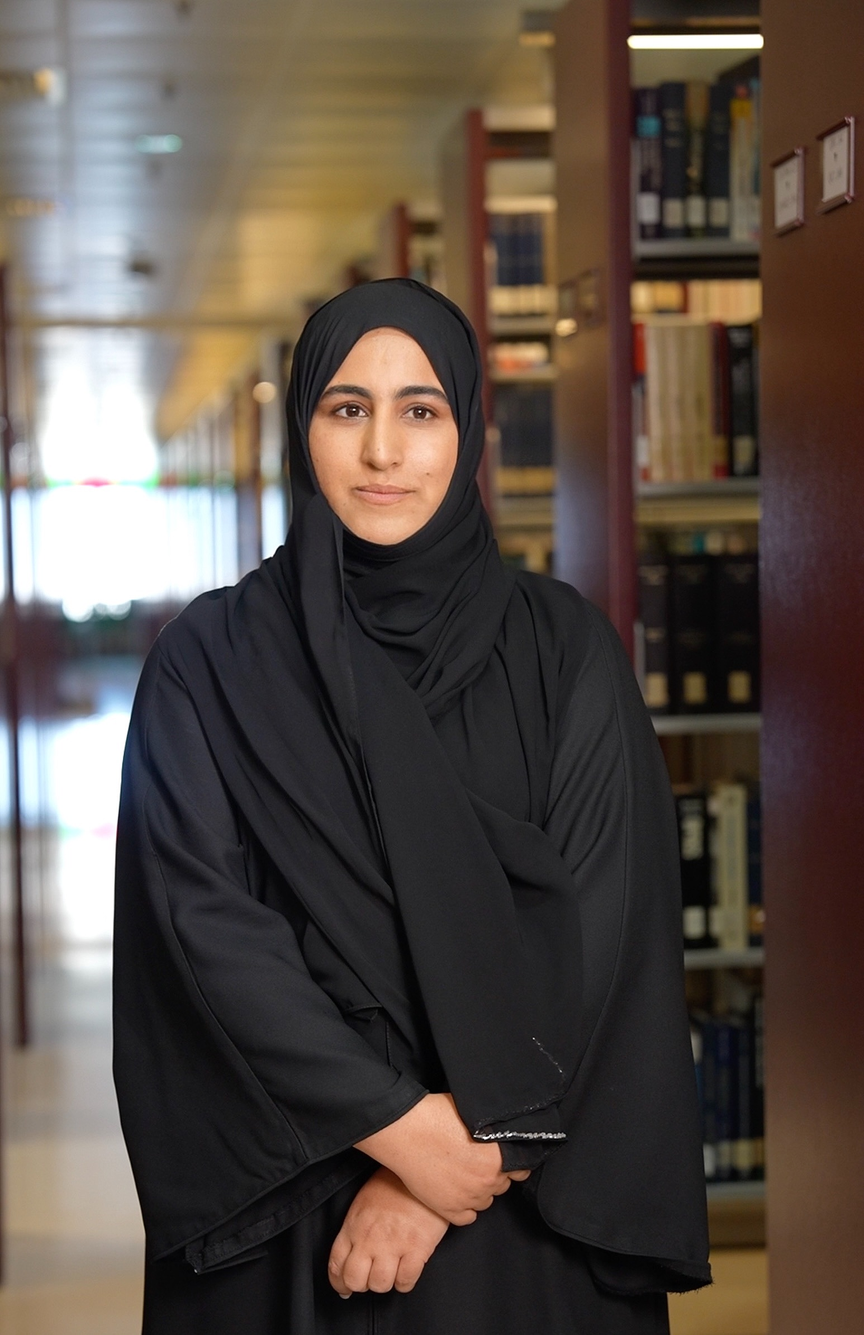
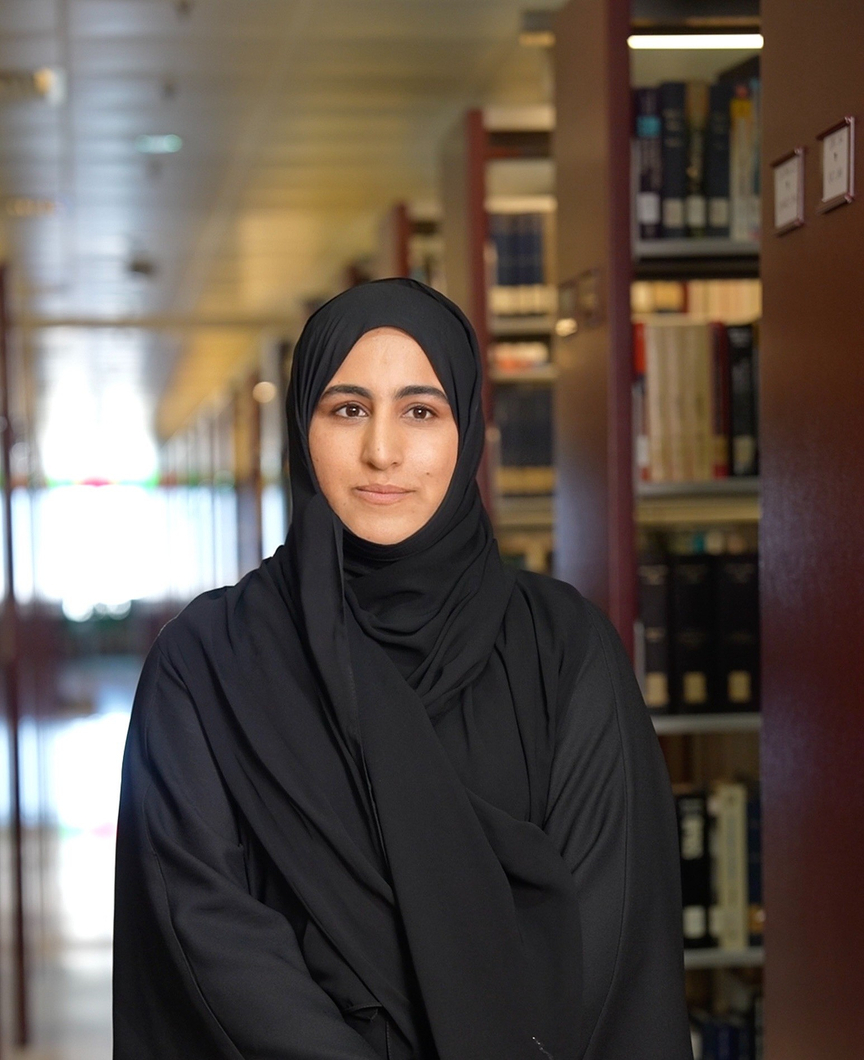
test fork push

diff --git a/styles.css b/styles.css
@@ -1277,11 +1277,10 @@ body.theme-7 {
     padding: 80px 0;
 }
 
-/* Flexbox allows us to center the 'orphaned' cards in the second row */
 .team-grid {
     display: flex;
     flex-wrap: wrap;
-    justify-content: center; /* This centers the cards */
+    justify-content: center;
     gap: 2.5rem;
     margin-top: 3rem;
     max-width: 1200px;
@@ -1292,7 +1291,8 @@ body.theme-7 {
 .team-card {
     background-color: var(--bg-white);
     border-radius: 12px;
-    padding: 2.5rem 1.5rem;
+    /* Removed horizontal padding so image hits the edges */
+    padding: 0 0 2rem 0; 
     text-align: center;
     box-shadow: var(--shadow-md);
     transition: all 0.3s ease;
@@ -1300,9 +1300,9 @@ body.theme-7 {
     display: flex;
     flex-direction: column;
     align-items: center;
+    overflow: hidden; /* This clips the image corners to the card radius */
     
-    /* Responsive width logic */
-    flex: 0 1 350px; /* Base width of 350px, but can shrink */
+    flex: 0 1 350px;
     max-width: 100%;
 }
 
@@ -1312,18 +1312,13 @@ body.theme-7 {
     border-top: 4px solid var(--accent-gold);
 }
 
-/* Circular Image Container */
+/* Updated: Rectangular Image Container filling the top half */
 .member-img-container {
-    width: 150px;
-    height: 150px;
-    margin: 0 auto 1.5rem;
-    border-radius: 50%;
+    width: 100%;       /* Spans full width of the card */
+    height: 220px;     /* Fixed height for the rectangle */
+    margin-bottom: 1.5rem;
     position: relative;
     overflow: hidden;
-    border: 4px solid var(--bg-light);
-    box-shadow: var(--shadow-sm);
-    
-    /* Background Shimmer Effect (Works without extra HTML) */
     background: #f6f7f8;
     background-image: linear-gradient(
         to right, 
@@ -1345,18 +1340,20 @@ body.theme-7 {
 .member-img-container img {
     width: 100%;
     height: 100%;
-    object-fit: cover;
+    object-fit: cover; /* Ensures the photo fills the rectangle without distorting */
+    
     display: block;
     position: relative;
     z-index: 2;
 }
 
-/* Typography */
+/* Typography Adjustments (adding side padding back for text) */
 .member-name {
     font-size: 1.4rem;
     font-weight: 700;
     color: var(--primary-color);
     margin-bottom: 0.5rem;
+    padding: 0 1.5rem; /* Padding for text since card padding was removed */
 }
 
 .member-role {
@@ -1364,6 +1361,7 @@ body.theme-7 {
     font-weight: 600;
     color: var(--secondary-color);
     margin-bottom: 1.2rem;
+    padding: 0 1.5rem;
 }
 
 .member-desc {
@@ -1371,14 +1369,15 @@ body.theme-7 {
     color: var(--text-light);
     line-height: 1.7;
     margin-bottom: 0;
+    padding: 0 1.5rem;
 }
 
 /* Mobile Adjustments */
 @media (max-width: 768px) {
-    .team-grid {
-        gap: 1.5rem;
-    }
     .team-card {
-        flex: 0 1 100%; /* Take full width on small mobile */
+        flex: 0 1 100%;
+    }
+    .member-img-container {
+        height: 200px; /* Slightly shorter rectangle for mobile */
     }
 }
